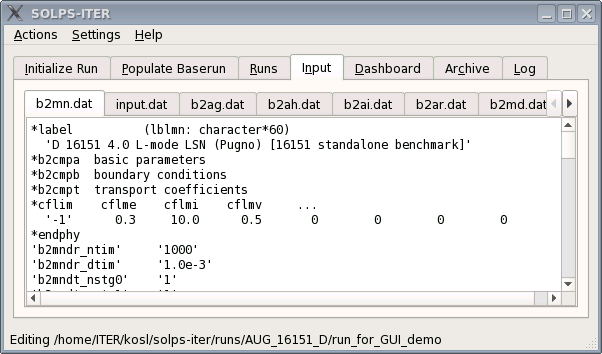
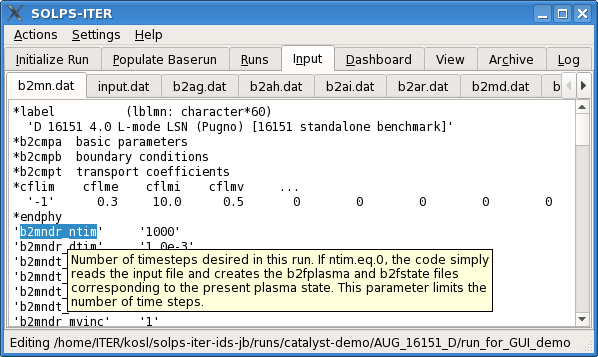
Update documentation for the solpsinput tooltips

diff --git a/doc/source/tutorial/runs.rst b/doc/source/tutorial/runs.rst
@@ -138,7 +138,8 @@ in the same way as tree-view columns. New files can be added by editing
 .. image:: runs_6.png
    :align: center
 
-For this case no editing is needed.
+For this case no editing is needed. One may hover the parameters to get
+the tooltip help extracted from the SOLPS manual.
 
 Starting the run
 ----------------
